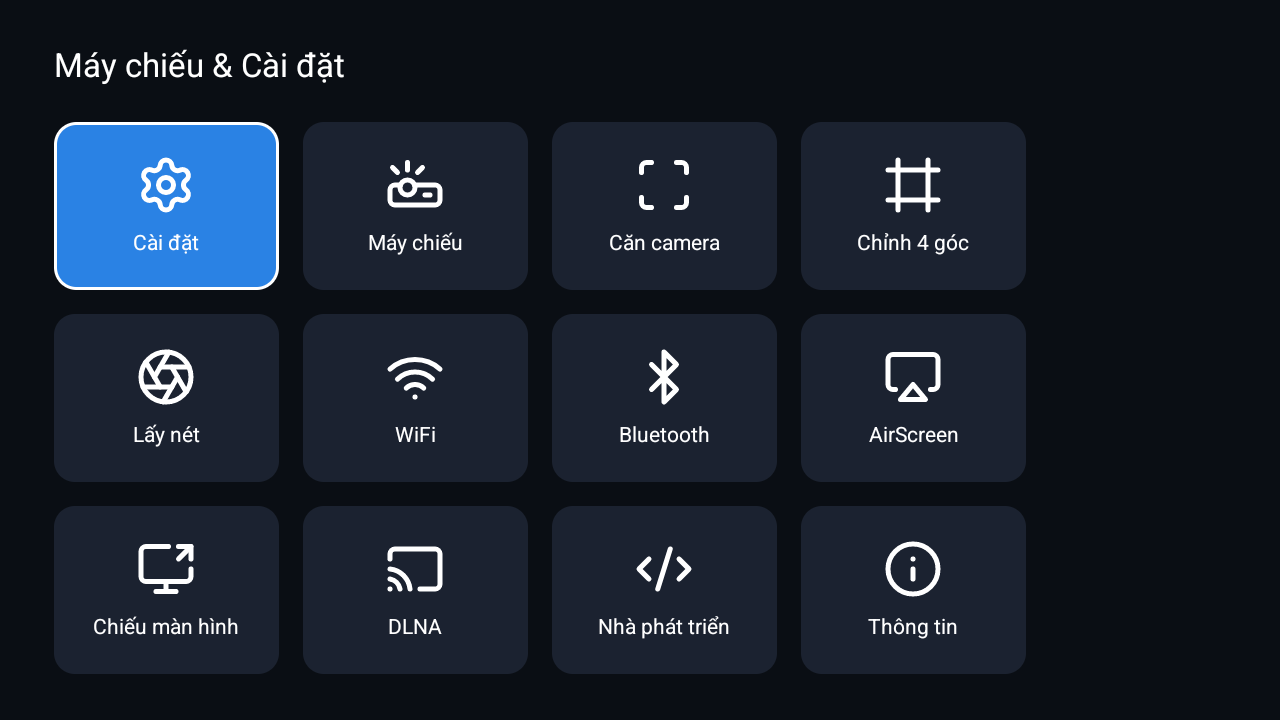
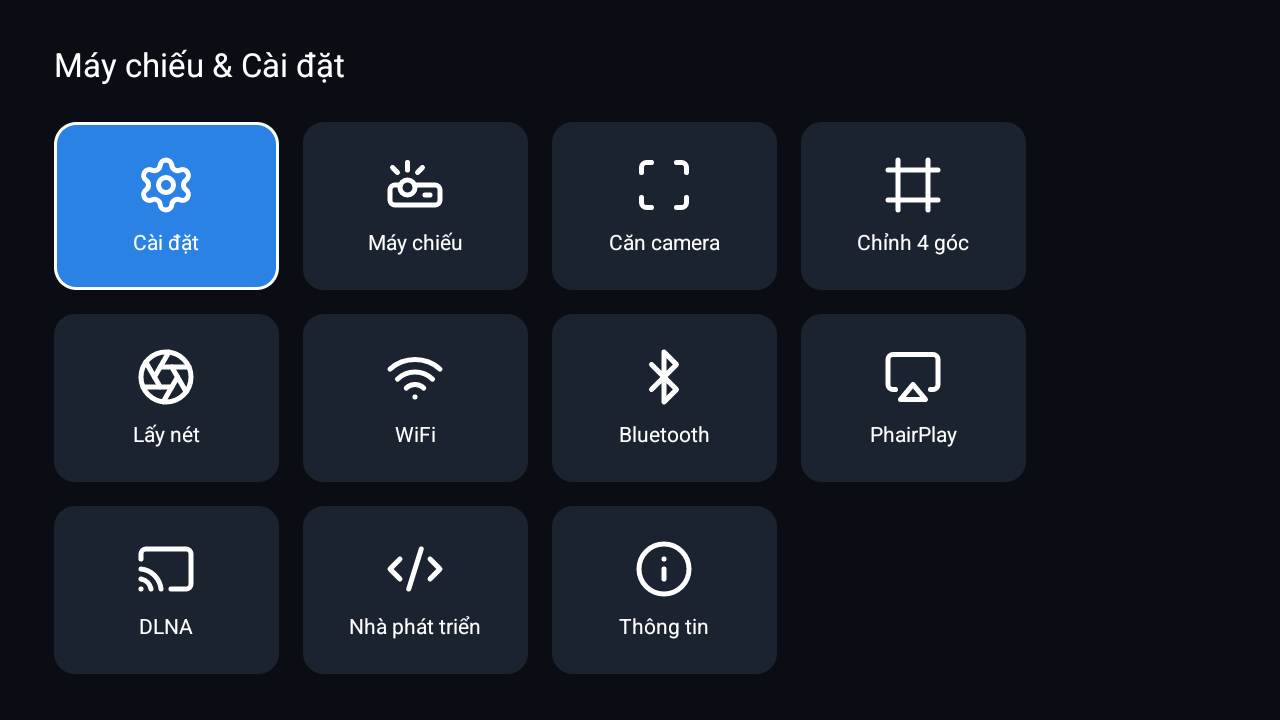
assets: refresh Hub screenshot (PhairPlay tile) and add the Material About
Update hub-app.png to the current tiles (single PhairPlay tile) and the dark
settings capture, add hub-about.png (the Hub's Material About screen), and show
the Hub tiles next to the About screen in docs/05.

diff --git a/docs/05-post-root.md b/docs/05-post-root.md
@@ -26,6 +26,11 @@ Apply it (see [`../launcher-mods/README.md`](../launcher-mods/README.md)): clone
 
 The Hub also carries its own dark-Material **About screen** (`AboutActivity`) that replaces MagcubicOS's harsh blue one: the same device info in rounded cards, read from system properties and standard APIs, with no software-update rows. It is the first step of moving the user-facing settings onto a consistent Material surface (the vendor projector/keystone screens have no Android equivalent and stay as they are; generic ones like Wi-Fi/Bluetooth can deep-link to Android's own Material settings).
 
+<p align="center">
+<img src="../assets/screenshots/hub-app.png" width="420" alt="Hub tiles">
+<img src="../assets/screenshots/hub-about.png" width="420" alt="Hub Material About screen">
+</p>
+
 ### Hiding the OTA update rows (no app patching)
 
 MagcubicOS's About screen shows two update rows ("software update" and "online update") that launch the already-removed `com.htc.htcotaupdate` / `com.softwinner.update`. Rather than repackage the system settings app, hide them through its own config: the launcher reads `/oem/shortcuts.config` (a writable vfat, preferred over `/system/shortcuts.config`) as JSON, and each About row's visibility is a boolean there. Set `"updateFirmware": false` and `"onlineUpdate": false` (keep a `.bak`), then `am force-stop com.htc.magcubicos` to reload. The same file also filters apps from the launcher and the app manager.
